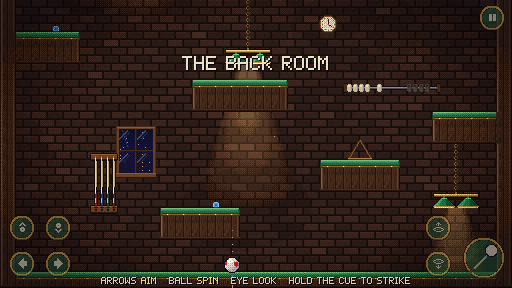
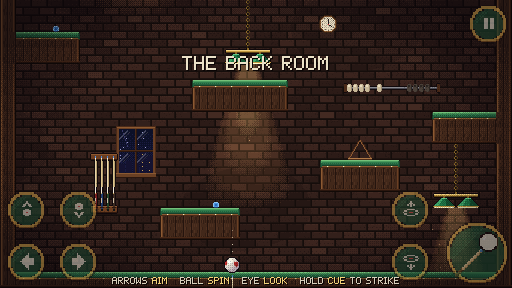
Make the touch buttons 1.5x bigger
The on-screen buttons felt too small. They're now drawn and touched at
1.5x their art (42 px, the cue button 66 px, in the 512x288 view) and the
layout is re-spaced so every touch area stays on screen with none
overlapping. The touch hints are shorter so they clear the bigger
buttons, and the touch suite checks the new size.

Changed region(s): [[0.0, 0.6562, 1.0, 1.0], [0.9062, 0.0, 1.0, 0.1562]]

diff --git a/docs/DESIGN.md b/docs/DESIGN.md
@@ -199,6 +199,6 @@ The Rooftops storm and the Fire Escape used to have rain streaks painted into th
 
 **When they show.** The setting is `SaveData.touch_controls`: `auto` (the default), `on` or `off`. Auto shows the buttons only when `DisplayServer.is_touchscreen_available()` (or the mobile or web_android / web_ios features) says the device has a touchscreen. In Auto a key or pad press hides them and releases anything they held, and a touch brings them back, so a touchscreen laptop used with a keyboard stays clean. Options cycles the setting.
 
-**Layout** (in the 512×288 view): aim arrows bottom left with the spin buttons above, the look buttons bottom right beside the 44 px cue button, pause in the top-right corner, and the flags in a row beside it. Each touch area is the drawing plus 3 px, and no two overlap. Buttons sit at 50% opacity, light up while held and drop to 15% while the ball is behind one, so they never hide it. They live on layer 4, under the HUD, and are pausable: they hide and release under the pause menu, the goal pop-up and the ending.
+**Layout** (in the 512×288 view): aim arrows bottom left with the spin buttons above, the look buttons bottom right beside the 44 px cue button, pause in the top-right corner, and the flags in a row beside it. Buttons are drawn and touched at 1.5× their art (42 px, the cue 66 px), each touch area is the drawing plus a small margin, and no two overlap. Buttons sit at 50% opacity, light up while held and drop to 15% while the ball is behind one, so they never hide it. They live on layer 4, under the HUD, and are pausable: they hide and release under the pause menu, the goal pop-up and the ending.
 
 **Phones.** On a touch device the window scales fractionally instead of by whole numbers, so the picture fills a phone screen; integer scaling left wide black borders. It also switches to `canvas_items` stretch, drawing straight at screen resolution, which keeps the pixel font sharp at fractional scales. The touch buttons place the ball relative to the camera, so their fading works in either mode. A tap dismisses the goal pop-up and the ending, and menus are tapped like any Godot button. In portrait, a "Turn your device sideways" line shows. On the web, a script in the export's `html/head_include` makes the first touch go fullscreen and lock to landscape. It runs inside the browser's own `pointerup` handler, because both calls need a user gesture and a lock only works in fullscreen. The Options Fullscreen setting is only applied when it changes, so a volume change can't drop a phone out of fullscreen. The art is drawn by `tools/art_touch.lua`: round brass rims around green felt, matching the table.
